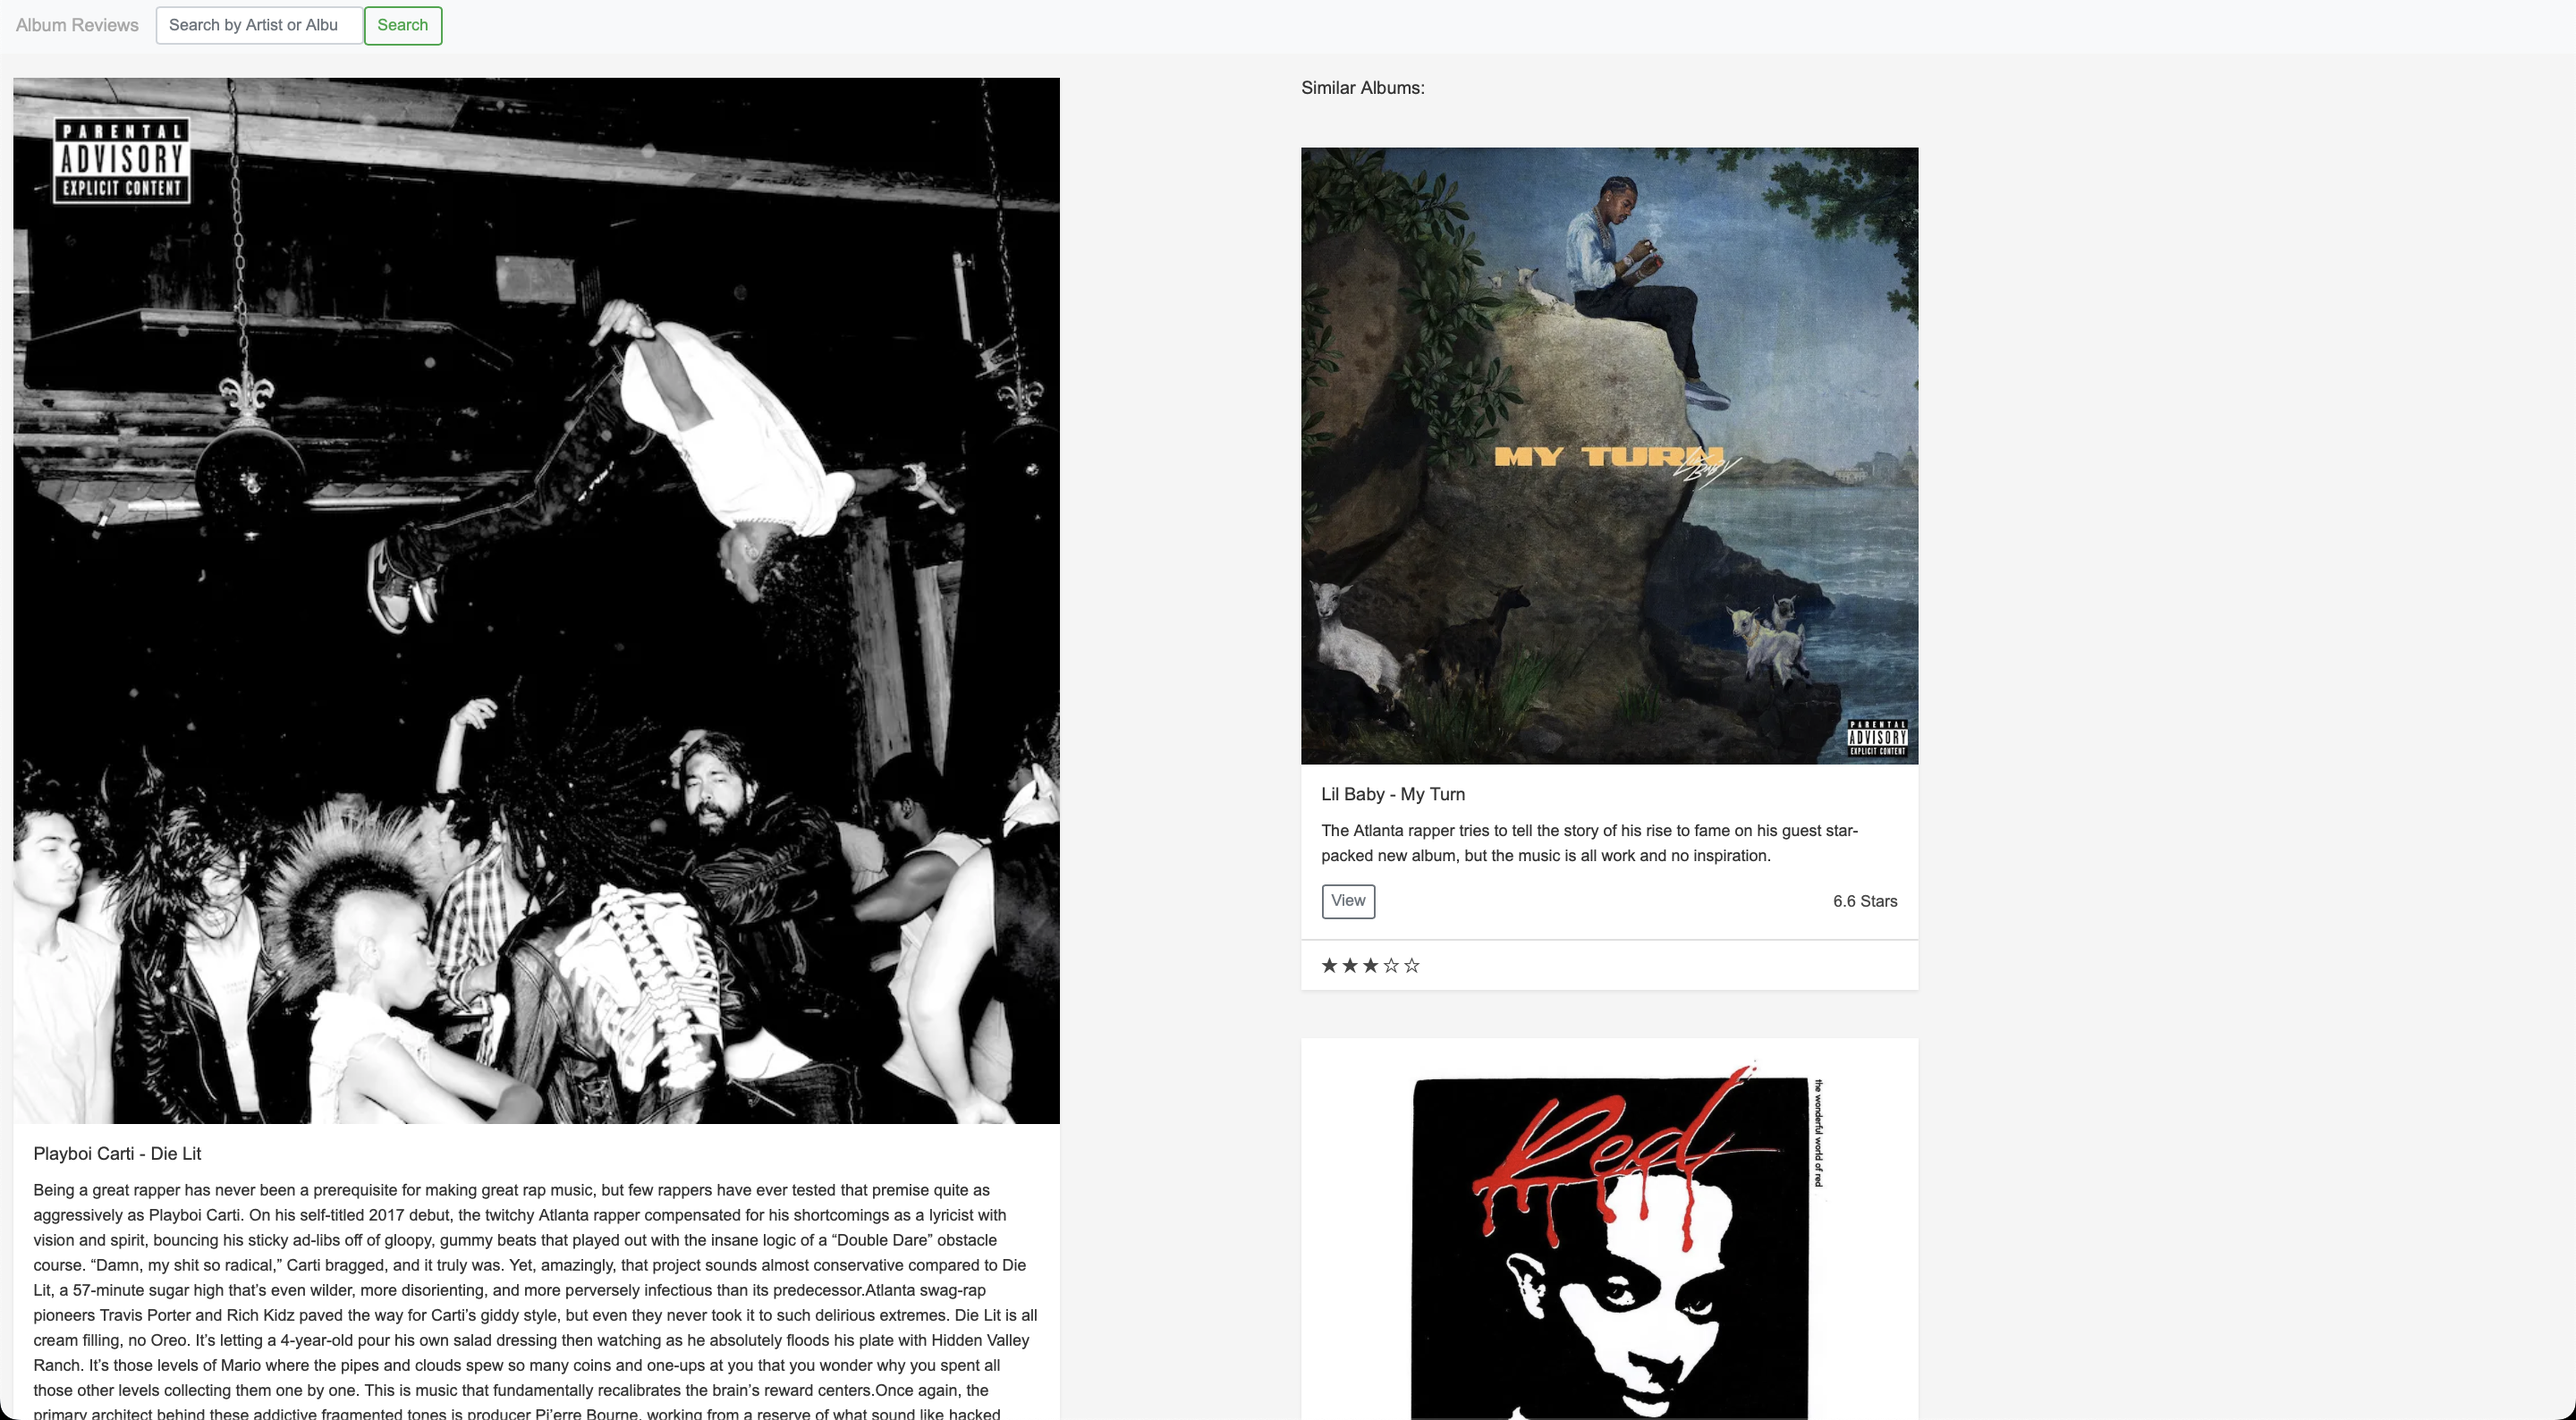
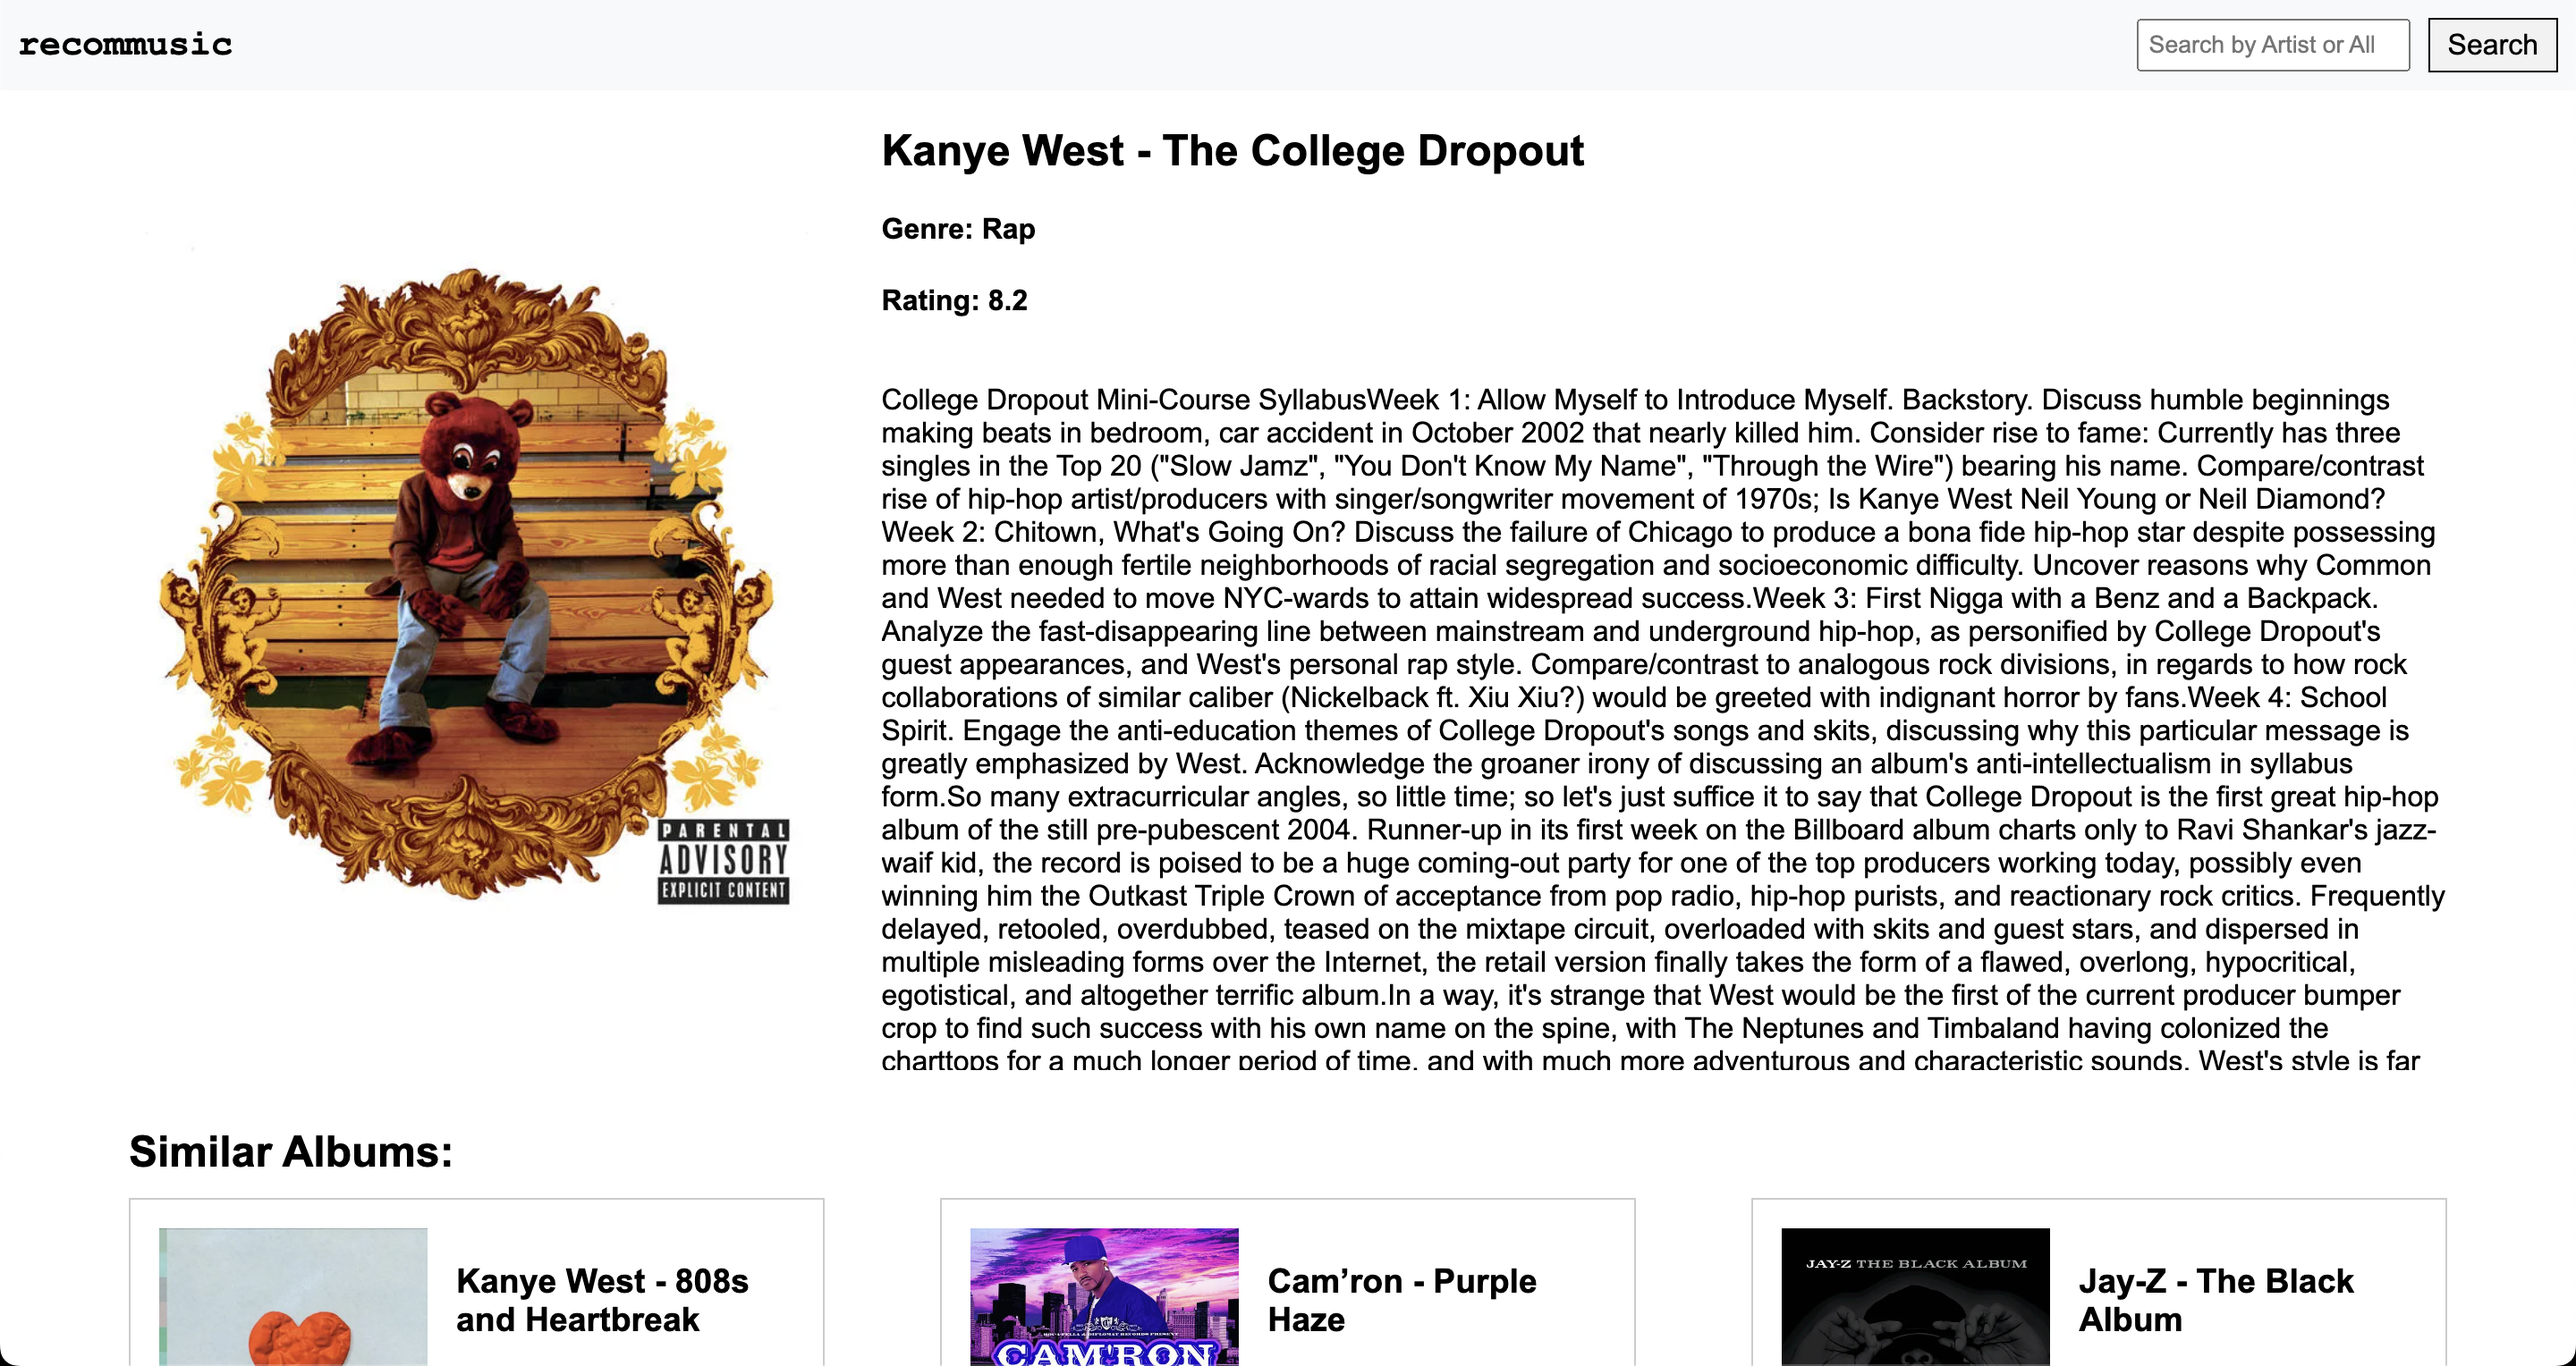
Updated style + screenshots

diff --git a/templates/review.html b/templates/review.html
@@ -12,25 +12,28 @@
         <!-- Review info -->
         <div class="review-section">
             <img class="review-image" src="{{ review.album_art_url }}" alt="Album image">
-            <div>
+            <div class="review-text">
                 <h2>{{ review.artist }} - {{ review.album }}</h2>
                 <h4>Genre: {{ review.genre }}</h4>
                 <h4>Rating: {{ '%.1f' | format(review.rating) }}</h4>
-                <p>{{ review.review }}</p>
+                <div class="scrollable-content">
+                    <p>{{ review.review }}</p>
+                </div>
             </div>
         </div>
-
         <!-- Similar Albums -->
         <h2>Similar Albums:</h2>
         <div class="similar-albums">
             {% for album in similar_albums %}
                 <div class="similar-album">
                     <img class="similar-image" src="{{ album.album_art_url }}" alt="Similar Album image">
-                    <div>
+                    <div class="album-info">
                         <h3>{{ album.artist }} - {{ album.album }}</h3>
                         <h4>Genre: {{ album.genre }}</h4>
                         <h4>Rating: {{ '%.1f' | format(album.rating) }}</h4>
-                        <p>{{ album.small_text }}</p>
+                        <div class="scrollable-content">
+                            <p>{{ album.small_text }}</p>
+                        </div>
                         <center><a href="/review/{{ album['artist'] }}/{{ album['album'] }}" class="btn">Read Full Review</a></center>
                     </div>
                 </div>

diff --git a/static/style.css b/static/style.css
@@ -42,17 +42,27 @@ body {
 
 .review-section {
     display: flex;
-    flex-direction: column;
+    flex-direction: row;
     align-items: center;
     margin-bottom: 2em;
+    justify-content: center;
+}
+
+.review-text {
+    margin-left: 2em;
 }
 
 .review-image {
-    width: 60%;
+    width: 30%;
     height: auto;
     object-fit: cover;
 }
 
+.scrollable-content {
+    max-height: 400px;
+    overflow-y: auto;
+    margin-top: 1em;
+}
 .similar-albums {
     display: flex;
     flex-wrap: wrap;
@@ -60,19 +70,29 @@ body {
 }
 
 .similar-album {
+    display: flex;
     width: 30%;
     border: 1px solid #ccc;
     margin-bottom: 1em;
     padding: 1em;
     box-sizing: border-box;
+    justify-content: flex-start;
+    align-items: flex-start;
+}
+
+.album-info {
+    margin-left: 1em;
+    flex: 1;
+    word-wrap: break-word;
 }
 
 .similar-image {
-    width: 100%;
+    width: 150px;
     height: auto;
     object-fit: cover;
     margin-bottom: 1em;
 }
+
 
 .search-results {
     display: flex;
